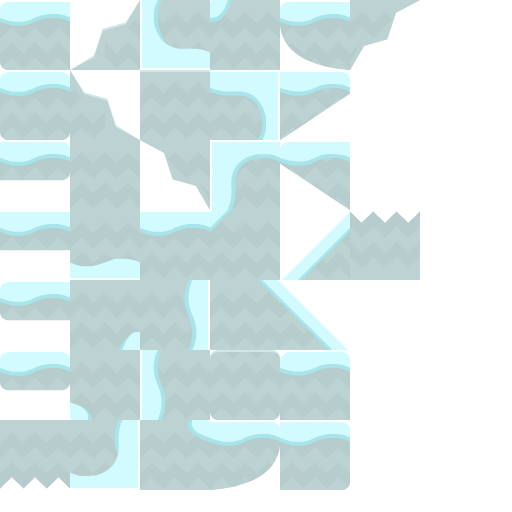
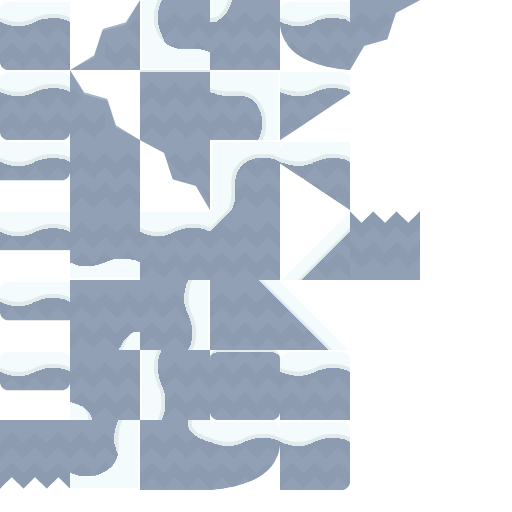
XML data, view colliders and godmode, and block camera at the end of the level

diff --git a/Game/Source/Player.cpp b/Game/Source/Player.cpp
@@ -9,6 +9,7 @@
 #include "Audio.h"
 #include "Map.h"
 #include "FadeToBlack.h"
+#include "Log.h"
 
 Player::Player() : Module()
 {
@@ -50,10 +51,27 @@ Player::Player() : Module()
 	// ANIMATION WHEN PLAYER DIES
 
 }
+bool Player::Awake(pugi::xml_node& config)
+{
+	LOG("Loading Player");
+	bool ret = true;
+
+	folder.Create(config.child("folder").child_value());
+
+	playerString.Create(config.child("image").attribute("source").as_string(""));
+
+	godMode = config.child("godmode").attribute("value").as_bool();
+	gravity = config.child("gravity").attribute("value").as_float();
+	jump = config.child("jump").attribute("value").as_bool();
+	speedX = config.child("speed").attribute("x").as_float();
+	speedY = config.child("speed").attribute("y").as_float();
+
+	return true;
+}
 bool Player::Start()
 {
-
-	player = app->tex->Load("Assets/textures/Characters/Adventurer/adventurer_tilesheet2.png");
+	SString tmp("%s%s", folder.GetString(), playerString.GetString());
+	player = app->tex->Load(tmp.GetString());
 	// SET POSITION
 	position.x = 200;
 	position.y = 608;
@@ -118,12 +136,12 @@ bool Player::Update(float dt)
 		app->render->camera.x += 1;
 	}
 
-	if (app->input->GetKey(SDL_SCANCODE_W) == KeyState::KEY_REPEAT)
+	if (app->input->GetKey(SDL_SCANCODE_W) == KeyState::KEY_REPEAT && godMode == true)
 	{
 		position.y -= 2;
 	}
 
-	if (app->input->GetKey(SDL_SCANCODE_S) == KeyState::KEY_REPEAT)
+	if (app->input->GetKey(SDL_SCANCODE_S) == KeyState::KEY_REPEAT && godMode == true)
 	{
 			position.y += 2;
 	}
@@ -188,7 +206,7 @@ bool Player::Update(float dt)
 
 	// RESTART GAME (F1 && F3)
 
-	if (app->input->GetKey(SDL_SCANCODE_F1) == KEY_DOWN || app->input->GetKey(SDL_SCANCODE_F3) == KEY_DOWN)
+	if (app->input->GetKey(SDL_SCANCODE_F1) == KeyState::KEY_DOWN || app->input->GetKey(SDL_SCANCODE_F3) == KeyState::KEY_DOWN)
 	{
 		app->player->CleanUp();
 		app->scene->CleanUp();
@@ -197,13 +215,13 @@ bool Player::Update(float dt)
 	}
 
 	// SAVE GAME (F5)
-	if (app->input->GetKey(SDL_SCANCODE_F5) == KEY_DOWN)
+	if (app->input->GetKey(SDL_SCANCODE_F5) == KeyState::KEY_DOWN)
 	{
 		app->SaveGameRequest();
 	}
 
 	// LOAD GAME (F6)
-	if (app->input->GetKey(SDL_SCANCODE_F6) == KEY_DOWN)
+	if (app->input->GetKey(SDL_SCANCODE_F6) == KeyState::KEY_DOWN)
 	{
 		app->LoadGameRequest();
 	}
@@ -212,6 +230,10 @@ bool Player::Update(float dt)
 
 
 	// GODMODE (F10)
+	if (app->input->GetKey(SDL_SCANCODE_F10) == KeyState::KEY_DOWN)
+	{
+		godMode = true;
+	}
 
 	currentAnimation->Update();
 	
@@ -244,64 +266,69 @@ bool Player::CleanUp() {
 
 int Player::Collision()
 {
-	int ret = 0;
-
-	iPoint playerTileDown;
-	iPoint playerTileUp;
-	iPoint playerTileRight;
-	iPoint playerTileLeft;
-
-	playerTileDown = app->map->WorldToMap(position.x + 29, position.y + 93);
-	playerTileUp = app->map->WorldToMap(position.x + 29, position.y - 1);
-	playerTileRight = app->map->WorldToMap(position.x + 59, position.y + 46);
-	playerTileLeft = app->map->WorldToMap(position.x - 1, position.y + 46);
-
-	ListItem<MapLayer*>* lay = app->map->data.layers.start;
-
-	int idDown;
-	int idUp;
-	int idRight;
-	int idLeft;
-
-	while (lay != NULL)
+	if (godMode == false)
 	{
-		if (lay->data->properties.GetProperty("Collision") == 1)
-		{
-			idDown = lay->data->Get(playerTileDown.x, playerTileDown.y);
-			idUp = lay->data->Get(playerTileUp.x, playerTileUp.y);
-			idRight = lay->data->Get(playerTileRight.x, playerTileRight.y);
-			idLeft = lay->data->Get(playerTileLeft.x, playerTileLeft.y);
+		int ret = 0;
 
-			//Tile Down
-			if (idDown == 50 || idDown == 51)
+		iPoint playerTileDown;
+		iPoint playerTileUp;
+		iPoint playerTileRight;
+		iPoint playerTileLeft;
+
+		playerTileDown = app->map->WorldToMap(position.x + 29, position.y + 93);
+		playerTileUp = app->map->WorldToMap(position.x + 29, position.y - 1);
+		playerTileRight = app->map->WorldToMap(position.x + 59, position.y + 46);
+		playerTileLeft = app->map->WorldToMap(position.x - 1, position.y + 46);
+
+		ListItem<MapLayer*>* lay = app->map->data.layers.start;
+
+		int idDown;
+		int idUp;
+		int idRight;
+		int idLeft;
+
+		while (lay != NULL)
+		{
+			if (lay->data->properties.GetProperty("Collision") == 1)
 			{
-				return 1;
+				idDown = lay->data->Get(playerTileDown.x, playerTileDown.y);
+				idUp = lay->data->Get(playerTileUp.x, playerTileUp.y);
+				idRight = lay->data->Get(playerTileRight.x, playerTileRight.y);
+				idLeft = lay->data->Get(playerTileLeft.x, playerTileLeft.y);
+
+				//Tile Down
+				if (idDown == 50 || idDown == 51)
+				{
+					return 1;
+				}
+				//Tile Up
+				if (idUp == 50 || idUp == 51)
+				{
+					return 2;
+				}
+				//Tile Right
+				if (idRight == 50 || idRight == 51)
+				{
+					return 3;
+				}
+				//Tile Left
+				if (idLeft == 50 || idLeft == 51)
+				{
+					return 4;
+				}
 			}
-			//Tile Up
-			if (idUp == 50 || idUp == 51)
-			{
-				return 2;
-			}
-			//Tile Right
-			if (idRight == 50 || idRight == 51)
-			{
-				return 3;
-			}
-			//Tile Left
-			if (idLeft == 50 || idLeft == 51)
-			{
-				return 4;
-			}
+			lay = lay->next;
 		}
-		lay = lay->next;
+
+		return ret;
+
 	}
 
-	return ret;
 }
 
 void Player::Gravity()
 {
-	if(Collision() != 1)
+	if(Collision() != 1 && godMode == false)
 	{
 		speedY -= gravity;
 		position.y -= speedY;

diff --git a/Game/Source/Scene.cpp b/Game/Source/Scene.cpp
@@ -20,10 +20,14 @@ Scene::~Scene()
 {}
 
 // Called before render is available
-bool Scene::Awake()
+bool Scene::Awake(pugi::xml_node& config)
 {
 	LOG("Loading Scene");
 	bool ret = true;
+
+	folder.Create(config.child("folder").child_value());
+
+	stringBackground.Create(config.child("image").attribute("source").as_string(""));
 
 	return ret;
 }
@@ -34,8 +38,9 @@ bool Scene::Start()
 	// L03: DONE: Load map
 	//app->map->Load("hello2.tmx");
 	app->map->Load("SnowMap.tmx");
-	
-	background = app->tex->Load("Assets/tiles/SnowBackground.png");
+
+	SString tmp("%s%s", folder.GetString(), stringBackground.GetString());
+	bg = app->tex->Load(tmp.GetString());
 
 	// Load music
 	app->audio->PlayMusic("Assets/audio/music/music_spy.ogg");
@@ -72,6 +77,9 @@ bool Scene::Update(float dt)
 	if(app->input->GetKey(SDL_SCANCODE_RIGHT) == KEY_REPEAT)
 		app->render->camera.x -= 1;
 
+	if (app->input->GetKey(SDL_SCANCODE_F9) == KEY_DOWN)
+		app->map->viewCollisions = !app->map->viewCollisions;
+
 	//app->render->DrawTexture(img, 380, 100); // Placeholder not needed any more
 
 	// L03: DONE 7: Set the window title with map/tileset info
@@ -93,7 +101,7 @@ bool Scene::PostUpdate()
 	if(app->input->GetKey(SDL_SCANCODE_ESCAPE) == KEY_DOWN)
 		ret = false;
 
-	app->render->DrawTexture(background, 0, 0, NULL, 1.0f);
+	app->render->DrawTexture(bg, 0, 0, NULL, 1.0f);
 	// Draw map
 	app->map->Draw();
 
@@ -106,7 +114,7 @@ bool Scene::CleanUp()
 	LOG("Freeing scene");
 
 	//Unload the background
-	app->tex->UnLoad(background);
+	app->tex->UnLoad(bg);
 
 	return true;
 }

diff --git a/Game/Source/Player.h b/Game/Source/Player.h
@@ -21,6 +21,7 @@ class Player : public Module
 {
 public:
 	Player();
+	bool Awake(pugi::xml_node& config);
 	bool Start();
 	bool Update(float dt);
 	bool PostUpdate();
@@ -51,19 +52,24 @@ public:
 	Animation rightRunAnim;
 	Animation deadAnim;
 
+	bool godMode;
+
 private:
 	// Player texture
 	SDL_Texture* player = nullptr;
 
 	// Player gravity
-	float gravity = 0.015f;
+	float gravity;
 
 	// Jump mechanic
-	bool jump = false;
+	bool jump;
 
 	// Speed to run
-	float speedX = 0.1f;
-	float speedY = 0.0f;
+	float speedX;
+	float speedY;
+
+	SString folder;
+	SString playerString;
 };
 #endif
 

diff --git a/Game/Source/Map.cpp b/Game/Source/Map.cpp
@@ -1,8 +1,8 @@
-
 #include "App.h"
 #include "Render.h"
 #include "Textures.h"
 #include "Map.h"
+#include "Player.h"
 
 #include "Defs.h"
 #include "Log.h"
@@ -67,7 +67,7 @@ void Map::Draw()
 					// L04: TODO 9: Complete the draw function
 					iPoint ret = MapToWorld(x, y);
 					TileSet* set = GetTilesetFromTileId(tileId);
-					if (layer->data->properties.GetProperty("Drawable") == 1)
+					if (layer->data->properties.GetProperty("Drawable") == 1 || viewCollisions == true)
 					{
 						app->render->DrawTexture(set->texture, ret.x, ret.y, &set->GetTileRect(tileId));
 					}

diff --git a/Game/Source/Scene.h b/Game/Source/Scene.h
@@ -3,6 +3,8 @@
 
 #include "Module.h"
 
+#include "PugiXml\src\pugixml.hpp"
+
 struct SDL_Texture;
 
 class Scene : public Module
@@ -15,7 +17,7 @@ public:
 	virtual ~Scene();
 
 	// Called before render is available
-	bool Awake();
+	bool Awake(pugi::xml_node& config);
 
 	// Called before the first frame
 	bool Start();
@@ -33,7 +35,10 @@ public:
 	bool CleanUp();
 
 private:
-	SDL_Texture* background;
+	SDL_Texture* bg;
+	pugi::xml_node node;
+	SString folder;
+	SString stringBackground;
 };
 
 #endif // __SCENE_H__

diff --git a/Game/Source/Render.cpp b/Game/Source/Render.cpp
@@ -1,6 +1,7 @@
 #include "App.h"
 #include "Window.h"
 #include "Render.h"
+#include "Map.h"
 
 #include "Defs.h"
 #include "Log.h"
@@ -70,6 +71,15 @@ bool Render::PreUpdate()
 
 bool Render::Update(float dt)
 {
+	if (camera.x < -(app->map->data.width * app->map->data.tileWidth) + camera.w)
+	{
+		camera.x = -(app->map->data.width * app->map->data.tileWidth) + camera.w;
+	}
+	else if (camera.x > 0)
+	{
+		camera.x = 0;
+	}
+
 	return true;
 }
 

diff --git a/Game/Source/Map.h b/Game/Source/Map.h
@@ -143,6 +143,8 @@ public:
     // L03: DONE 1: Add your struct for map info
 	MapData data;
 
+	bool viewCollisions;
+
 private:
 
     pugi::xml_document mapFile;
